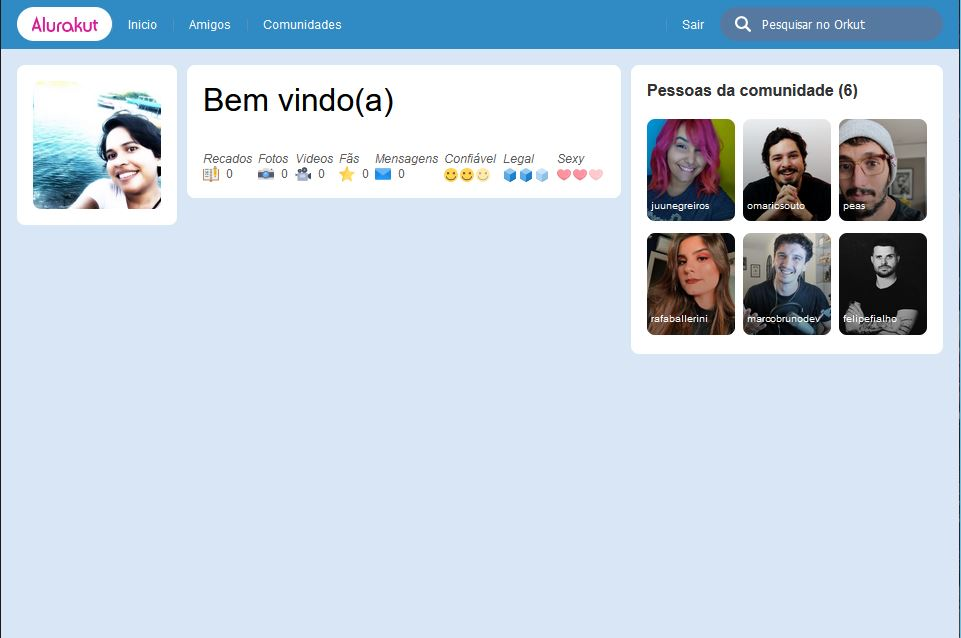
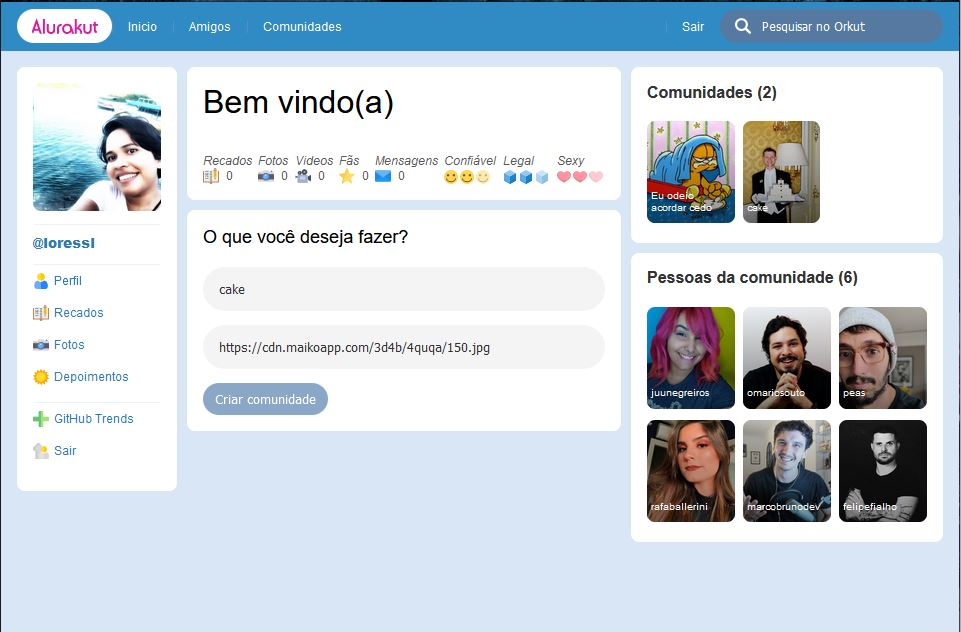
Segundo dia

diff --git a/pages/index.js b/pages/index.js
@@ -1,18 +1,35 @@
+import React from 'react';
 import MainGrid from "../src/components/MainGrind";
 import Box from "../src/components/Box";
-import { AlurakutMenu, OrkutNostalgicIconSet } from '../src/lib/AlurakutCommons';
+import { AlurakutMenu, OrkutNostalgicIconSet, AlurakutProfileSidebarMenuDefault } from '../src/lib/AlurakutCommons';
 import { ProfileRelationsBoxWrapper } from '../src/components/ProfileRelations';
 
 function ProfileSideBar(props) {
   return (
-    <Box>
+    <Box as="aside">
       <img src={`https://github.com/${props.githubUser}.png`} style={{ borderRadius: '8px' }} />
+      <hr />
+
+      <p>
+        <a className="boxLink" href={`https://github.com/${props.githubUser}`}>
+          @{props.githubUser}
+        </a>
+      </p>
+      <hr />
+      <AlurakutProfileSidebarMenuDefault />
     </Box>
   )
 }
 
 export default function Home() {
   const githubUser = 'loressl';
+
+  const [comunidades, setComunidades] = React.useState([{
+    id: '12802378123789378912789789123896123',
+    title: 'Eu odeio acordar cedo',
+    image: 'https://alurakut.vercel.app/capa-comunidade-01.jpg'
+  }]);
+
   const pessoasFavoritas = [
     'juunegreiros',
     'omariosouto',
@@ -37,8 +54,59 @@ export default function Home() {
 
             <OrkutNostalgicIconSet />
           </Box>
+          <Box>
+            <h2 className="subTitle">O que você deseja fazer?</h2>
+            <form onSubmit={function handleCriaComunidade(e) {
+              e.preventDefault();
+              const dadosDoForm = new FormData(e.target);
+              const comunidade = {
+                id: new Date().toISOString(),
+                title: dadosDoForm.get('title'),
+                image: dadosDoForm.get('image'),
+              }
+              const comunidadesAtualizadas = [...comunidades, comunidade];
+              setComunidades(comunidadesAtualizadas)
+            }}>
+              <div>
+                <input
+                  placeholder="Qual vai ser o nome da sua comunidade?"
+                  name="title"
+                  aria-label="Qual vai ser o nome da sua comunidade?"
+                  type="text"
+                />
+              </div>
+              <div>
+                <input
+                  placeholder="Coloque uma URL para usarmos de capa"
+                  name="image"
+                  aria-label="Coloque uma URL para usarmos de capa"
+                />
+              </div>
+
+              <button>
+                Criar comunidade
+              </button>
+            </form>
+          </Box>
         </div>
         <div className="profileRelationsArea" style={{ gridArea: 'profileRelationsArea' }}>
+          <ProfileRelationsBoxWrapper>
+            <h2 className="smallTitle">
+              Comunidades ({comunidades.length})
+            </h2>
+            <ul>
+              {comunidades.map((itemAtual) => {
+                return (
+                  <li key={itemAtual.id}>
+                    <a href={`/users/${itemAtual.title}`}>
+                      <img src={itemAtual.image} />
+                      <span>{itemAtual.title}</span>
+                    </a>
+                  </li>
+                )
+              })}
+            </ul>
+          </ProfileRelationsBoxWrapper>
           <ProfileRelationsBoxWrapper>
             <h2 className="smallTitle">
               Pessoas da comunidade ({pessoasFavoritas.length})
@@ -47,8 +115,8 @@ export default function Home() {
             <ul>
               {pessoasFavoritas.map((itemAtual) => {
                 return (
-                  <li>
-                    <a href={`/users/${itemAtual}`} key={itemAtual}>
+                  <li key={itemAtual}>
+                    <a href={`/users/${itemAtual}`}>
                       <img src={`https://github.com/${itemAtual}.png`} />
                       <span>{itemAtual}</span>
                     </a>
